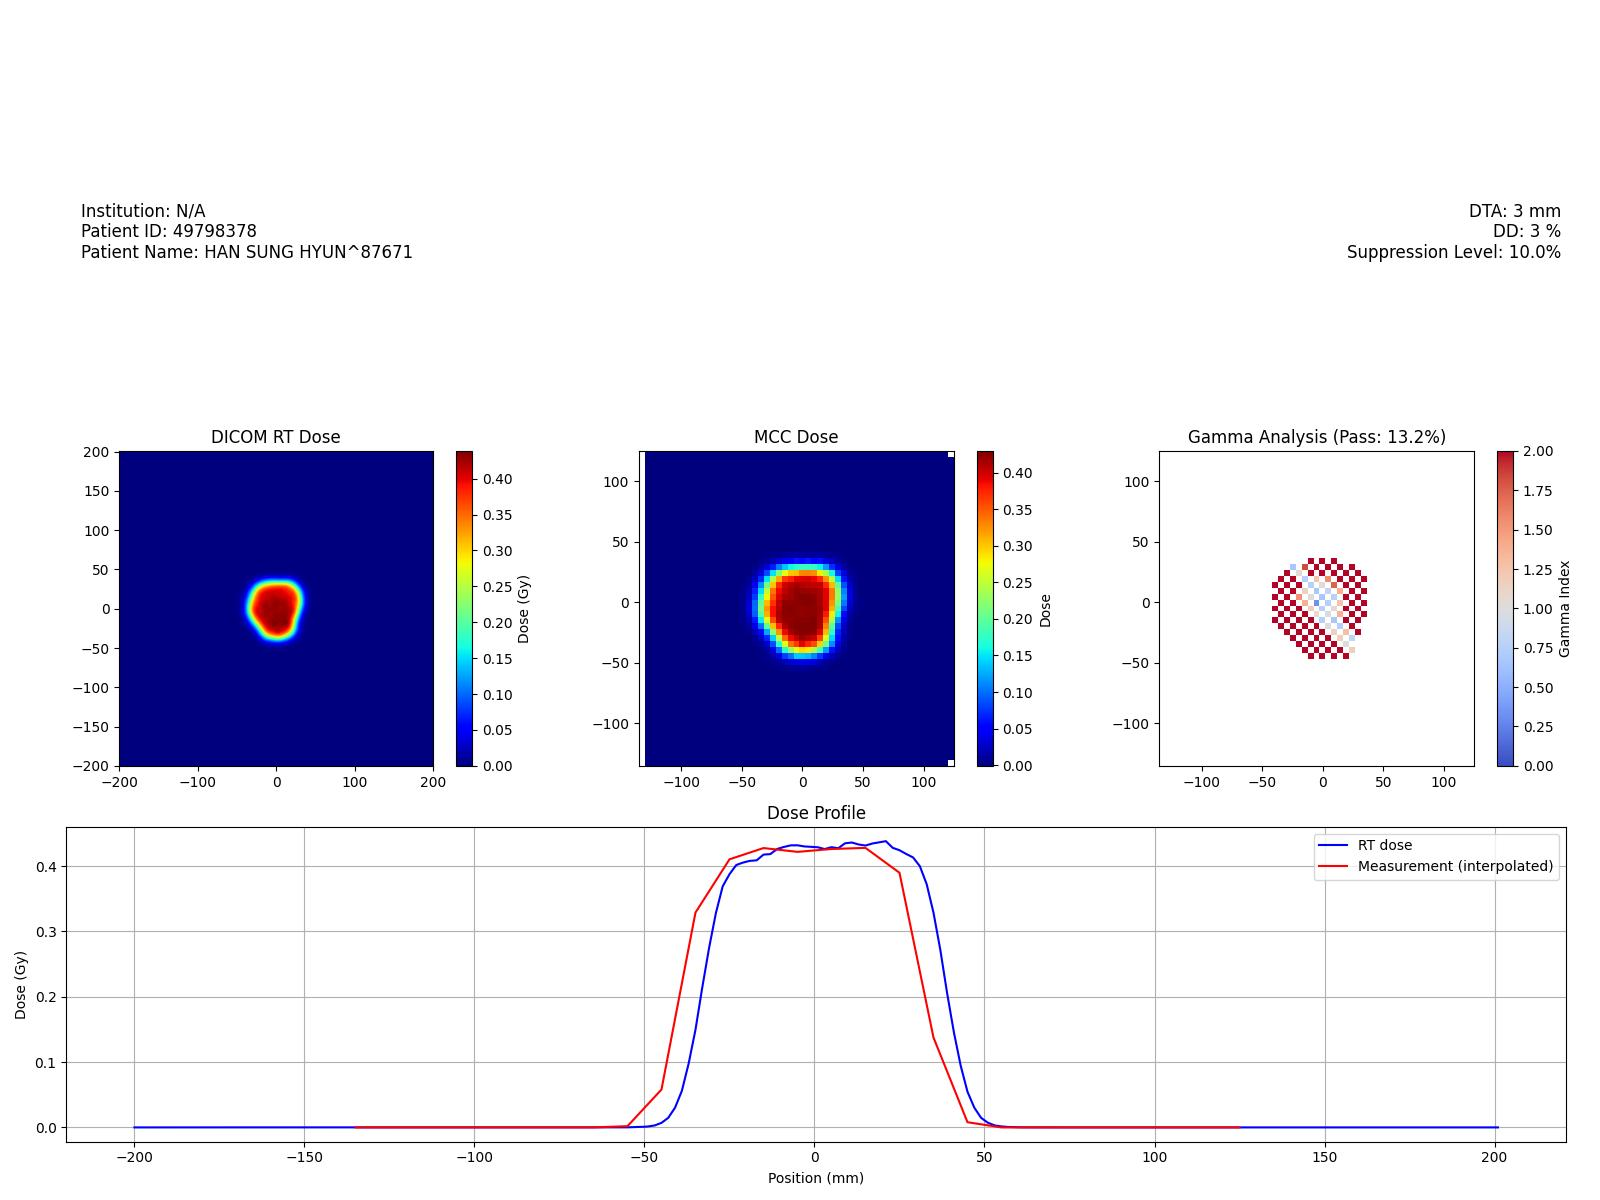
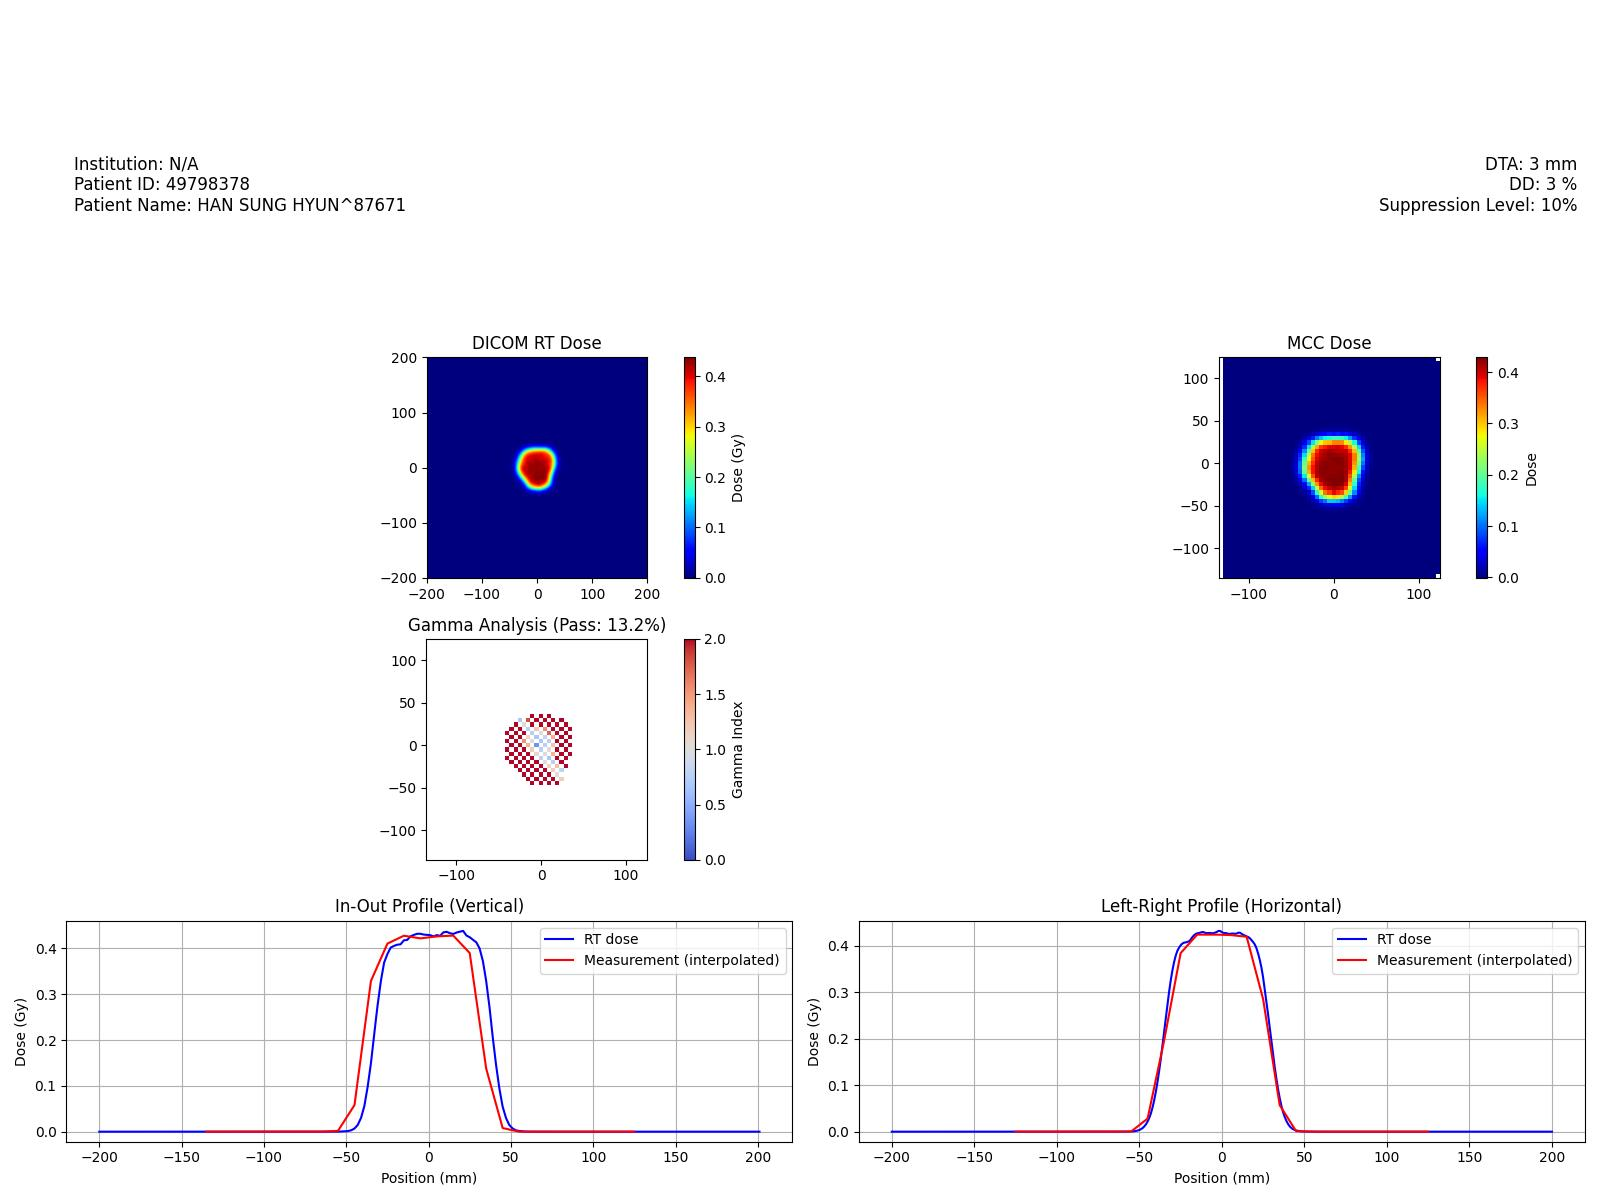
feat: Update report with dual profiles and config-based suppression
This commit updates the report generation functionality to include both vertical (in-out) and horizontal (left-right) dose profiles. It also moves the `suppression_level` setting from a command-line argument to the `config.json` file.

The changes include:
- The `config.json` file now includes the `suppression_level`.
- The `main.py` script now reads the `suppression_level` from the config file and extracts data for both vertical and horizontal profiles. The `--suppression` argument has been removed.
- The `reporting.py` module is updated to accept data for both profiles and plot them in the report.

diff --git a/reporting.py b/reporting.py
@@ -10,14 +10,15 @@ def generate_report(
     dta,
     dd,
     suppression_level,
-    profile_data
+    ver_profile_data,
+    hor_profile_data
 ):
     """Generates a report with all the analysis information."""
     fig = plt.figure(figsize=(16, 12))
-    gs = fig.add_gridspec(3, 3)
+    gs = fig.add_gridspec(4, 2)
 
     # Header
-    ax_header = fig.add_subplot(gs[0, :])
+    ax_header = fig.add_subplot(gs[0, 0])
     ax_header.axis('off')
     institution, patient_id, patient_name = dicom_handler.get_patient_info()
     header_text = (
@@ -28,7 +29,7 @@ def generate_report(
     ax_header.text(0.01, 0.5, header_text, transform=ax_header.transAxes, fontsize=12, verticalalignment='center')
 
     # Parameters
-    ax_params = fig.add_subplot(gs[0, 2])
+    ax_params = fig.add_subplot(gs[0, 1])
     ax_params.axis('off')
     params_text = (
         f"DTA: {dta} mm\n"
@@ -50,22 +51,34 @@ def generate_report(
     ax_mcc.set_title('MCC Dose')
 
     # Gamma Map
-    ax_gamma = fig.add_subplot(gs[1, 2])
+    ax_gamma = fig.add_subplot(gs[2, 0])
     im_gamma = ax_gamma.imshow(gamma_map, cmap='coolwarm', extent=mcc_handler.get_physical_extent(), vmin=0, vmax=2)
     fig.colorbar(im_gamma, ax=ax_gamma, label='Gamma Index')
     ax_gamma.set_title(f'Gamma Analysis (Pass: {gamma_stats.get("pass_rate", 0):.1f}%)')
 
-    # Profile
-    ax_profile = fig.add_subplot(gs[2, :])
-    if profile_data:
-        ax_profile.plot(profile_data['phys_coords'], profile_data['dicom_values'], 'b-', label='RT dose')
-        if 'mcc_interp' in profile_data:
-            ax_profile.plot(profile_data['phys_coords'], profile_data['mcc_interp'], 'r-', label='Measurement (interpolated)')
-        ax_profile.set_xlabel('Position (mm)')
-        ax_profile.set_ylabel('Dose (Gy)')
-        ax_profile.set_title('Dose Profile')
-        ax_profile.legend()
-        ax_profile.grid(True)
+    # Vertical Profile
+    ax_ver_profile = fig.add_subplot(gs[3, 0])
+    if ver_profile_data:
+        ax_ver_profile.plot(ver_profile_data['phys_coords'], ver_profile_data['dicom_values'], 'b-', label='RT dose')
+        if 'mcc_interp' in ver_profile_data:
+            ax_ver_profile.plot(ver_profile_data['phys_coords'], ver_profile_data['mcc_interp'], 'r-', label='Measurement (interpolated)')
+        ax_ver_profile.set_xlabel('Position (mm)')
+        ax_ver_profile.set_ylabel('Dose (Gy)')
+        ax_ver_profile.set_title('In-Out Profile (Vertical)')
+        ax_ver_profile.legend()
+        ax_ver_profile.grid(True)
+
+    # Horizontal Profile
+    ax_hor_profile = fig.add_subplot(gs[3, 1])
+    if hor_profile_data:
+        ax_hor_profile.plot(hor_profile_data['phys_coords'], hor_profile_data['dicom_values'], 'b-', label='RT dose')
+        if 'mcc_interp' in hor_profile_data:
+            ax_hor_profile.plot(hor_profile_data['phys_coords'], hor_profile_data['mcc_interp'], 'r-', label='Measurement (interpolated)')
+        ax_hor_profile.set_xlabel('Position (mm)')
+        ax_hor_profile.set_ylabel('Dose (Gy)')
+        ax_hor_profile.set_title('Left-Right Profile (Horizontal)')
+        ax_hor_profile.legend()
+        ax_hor_profile.grid(True)
 
     plt.tight_layout(rect=[0, 0, 1, 0.95])
     plt.savefig(output_path, format='jpeg')

diff --git a/main.py b/main.py
@@ -12,7 +12,6 @@ def main():
     parser = argparse.ArgumentParser(description="Run gamma analysis on DICOM RT and MCC files.")
     parser.add_argument("--rtplan", type=str, required=True, help="Path to the DICOM RT plan file.")
     parser.add_argument("--measure", type=str, required=True, help="Path to the measurement data file (MCC).")
-    parser.add_argument("--suppression", type=float, default=10.0, help="Dose suppression level in percent.")
     args = parser.parse_args()
 
     logger.info(f"Starting gamma analysis with the following arguments:")
@@ -25,7 +24,8 @@ def main():
             config = json.load(f)
         dta = config.get("dta", 3)
         dd = config.get("dd", 3)
-        logger.info(f"Loaded configuration: dta={dta}, dd={dd}")
+        suppression_level = config.get("suppression_level", 10)
+        logger.info(f"Loaded configuration: dta={dta}, dd={dd}, suppression_level={suppression_level}")
     except FileNotFoundError:
         logger.error("Error: config.json not found. Please create it.")
         sys.exit(1)
@@ -62,9 +62,15 @@ def main():
             print(f"  Min Gamma: {gamma_stats['min']:.3f}")
             print(f"  Total Points: {gamma_stats['total_points']}")
 
-            # Generate profile data for the report (e.g., a central vertical profile)
-            profile_data = extract_profile_data(
+            # Generate profile data for the report
+            ver_profile_data = extract_profile_data(
                 direction="vertical",
+                fixed_position=0,
+                dicom_handler=dicom_handler,
+                mcc_handler=mcc_handler
+            )
+            hor_profile_data = extract_profile_data(
+                direction="horizontal",
                 fixed_position=0,
                 dicom_handler=dicom_handler,
                 mcc_handler=mcc_handler
@@ -81,8 +87,9 @@ def main():
                 gamma_stats,
                 dta,
                 dd,
-                args.suppression,
-                profile_data
+                suppression_level,
+                ver_profile_data,
+                hor_profile_data
             )
             logger.info(f"Report saved to {output_filename}")
 
